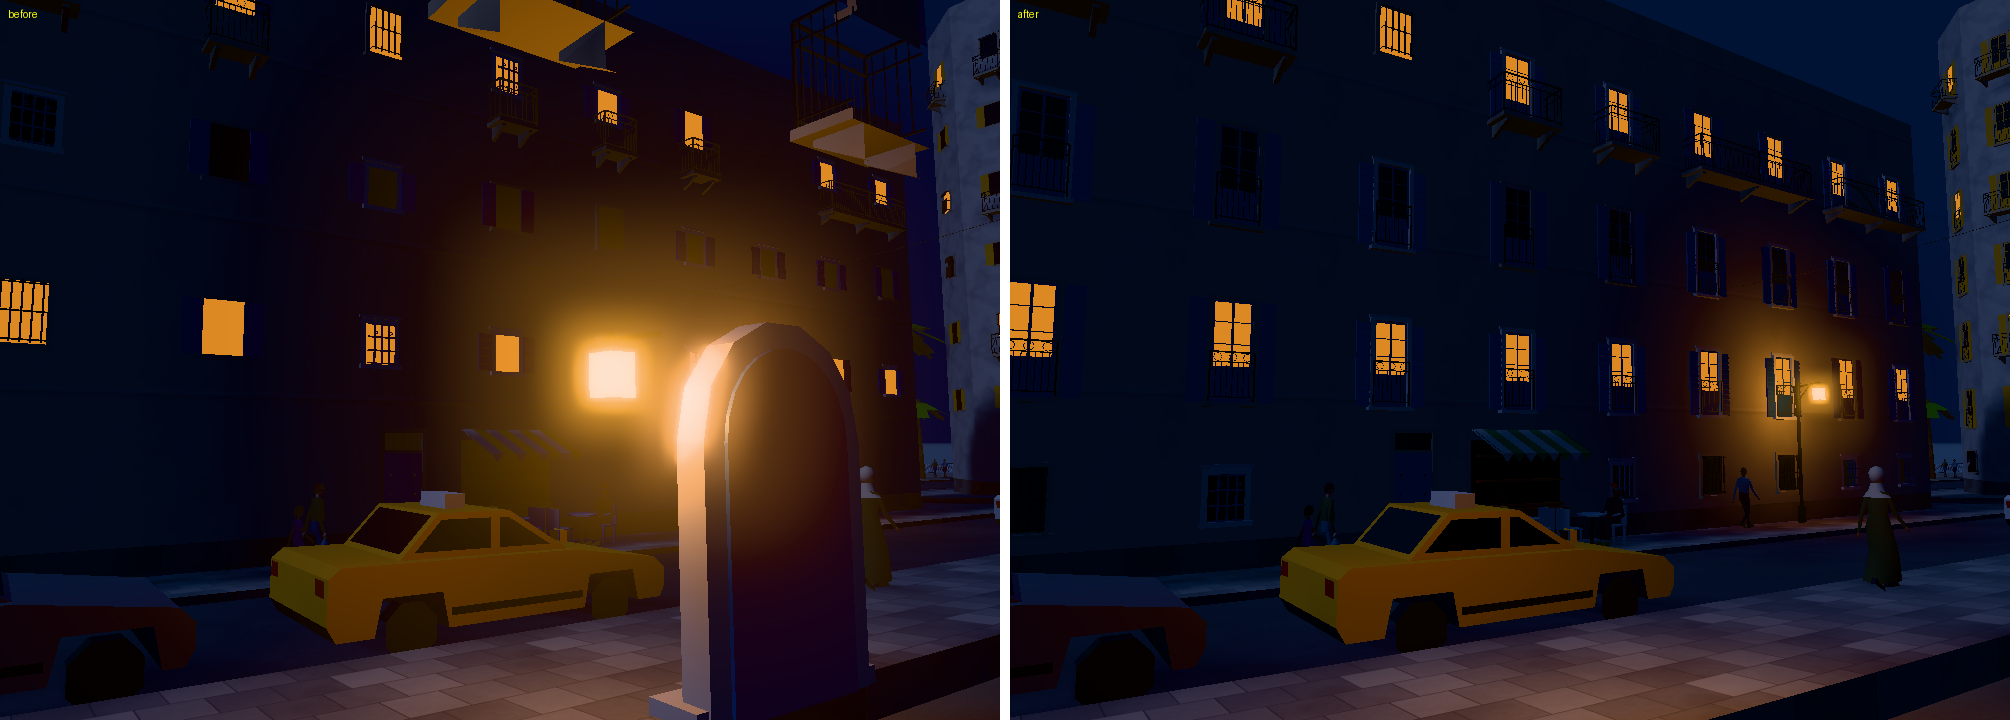
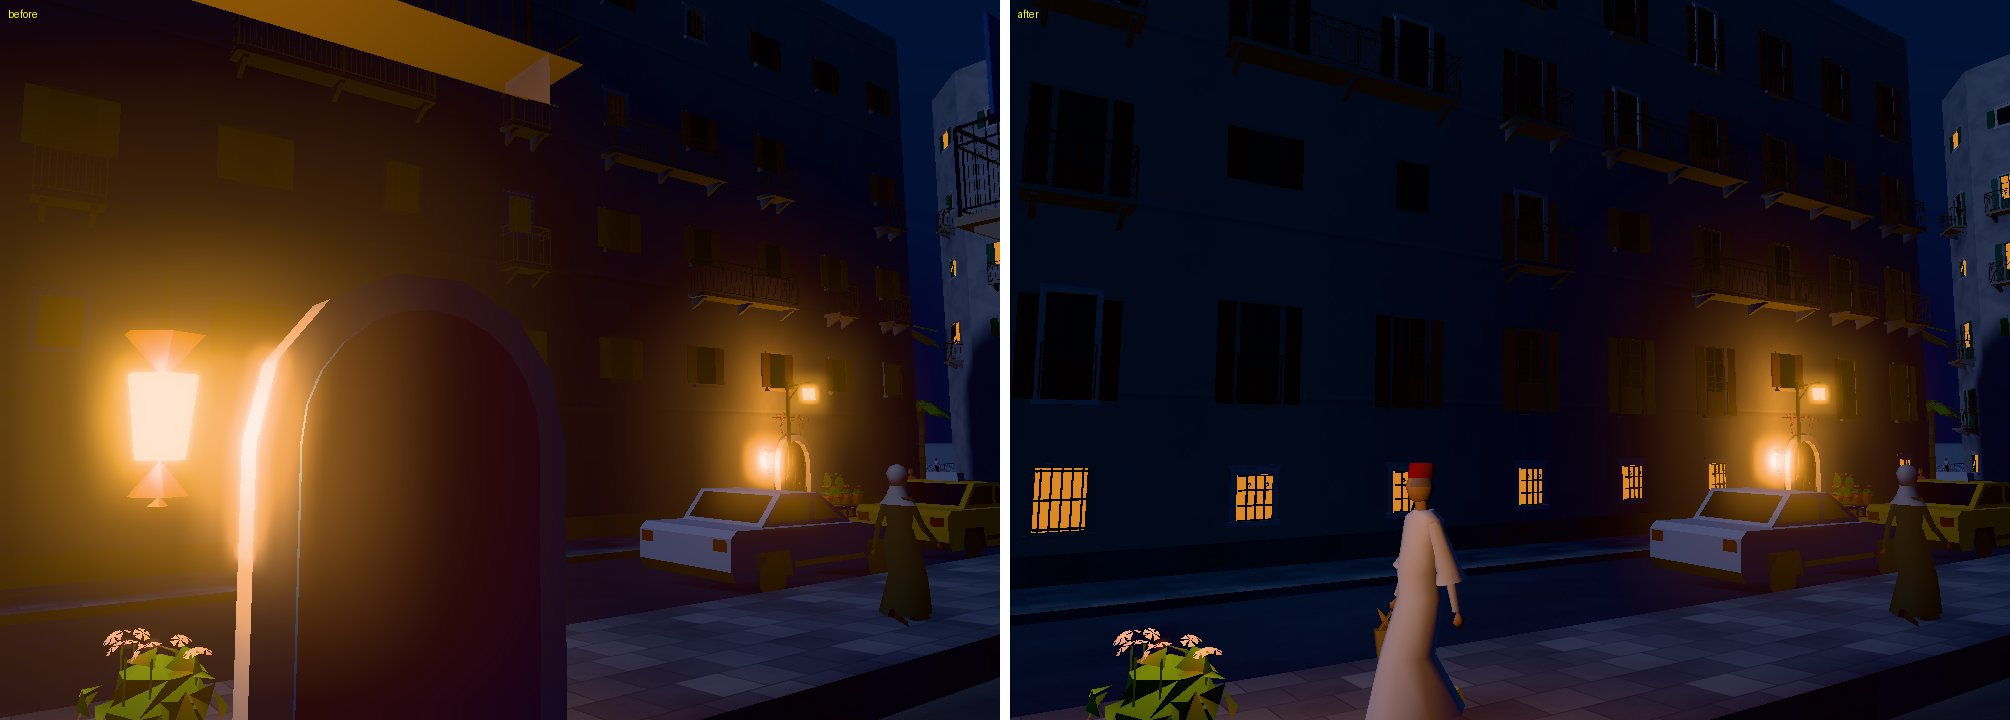
Facades on f4581c1: new numbers, capital-wide test slow, a turned flight's landing in the stairs test

diff --git a/tests/test_citygen.py b/tests/test_citygen.py
@@ -3668,6 +3668,7 @@ def _stripped(name: str) -> str:
     return name[:-4] if name.endswith("_lit") else name
 
 
+@pytest.mark.slow
 def test_every_iron_balcony_stands_before_door_windows(interior_ctx):
     """On the real quick capital: each rail has its door-window (two for a long balcony) at its floor, no plain
     window behind any rail, and no door-window without a rail: nobody steps out over a sill or into the air."""
@@ -4673,7 +4674,8 @@ def test_stairs_connect_floors_with_headroom(interior_ctx, old_town, new_distric
                 if s.kind != "ladder":                # the first leaves its floor, the last reaches the next
                     rise = np.diff(np.concatenate([[run.z_from], z, [run.z_to]]))
                     sign = 1.0 if run.z_to >= run.z_from else -1.0
-                    assert (sign * rise > -1e-6).all() and abs(z[0] - run.z_from) > 1e-6, (interior.building, s.kind)
+                    assert (sign * rise > -1e-6).all(), (interior.building, s.kind)
+                    assert s.turn or abs(z[0] - run.z_from) > 1e-6, (interior.building, s.kind)   # a turned flight's landing
                     assert np.abs(rise).max() <= S.riser_max(s, st) + 1e-6, (interior.building, s.kind)
                 for poly, z0, z1 in over:             # 2 m clear over every tread point
                     if poly.is_empty:

diff --git a/docs/wip/facades.md b/docs/wip/facades.md
@@ -3,7 +3,52 @@
 Branch `wip/facades` on main (8ea6008). Worktree `/tmp/claude-501/facades`. Tiles change: `make_blend` is the lead's.
 Why: Ali's screenshot of Megine, an iron balcony under a window with a sill at 0.95 m: nobody can step out.
 
-## 1. What to read first
+## 0. On main f4581c1 (the new capital): read this first
+
+Merged main (f4581c1) into the branch, no conflict. **All numbers in this section are on the merged code. Sections 2 to 9
+are the first round on 8ea6008, kept as the record: their designs hold, their counts were on the old capital.**
+
+| Group | Main f4581c1 | Merged | Ladder warnings |
+|---|---|---|---|
+| dar | 165/166 | 165/166 | 1 -> 1 |
+| compact | 266/268 | 266/268 | 5 -> 5 |
+| small | 74/78 | 74/78 | 4 -> 4 |
+| koubba | 25/27 | 25/27 | 0 -> 0 |
+| shop | 125/136 | 125/136 | 5 -> 5 |
+| colonial | 7/271 | **10/271** | 46 -> 47 |
+| slab | 237/340 | **274/340** | **33 -> 41** |
+| Takobka: villa | 136/150 | 136/150 | 2 -> 2 |
+| Takobka: maison | 386/503 | 386/503 | 23 -> 23 |
+| Takobka: dar, compact, small, koubba, shop | | 44/44, 66/66, 15/17, 4/4, 40/49 | |
+
+No group got worse in passes, 0 crashes. Slab ladder warnings rise with the gables: step 3's ladder check should look.
+
+| Gate | Result |
+|---|---|
+| `pytest -q` | 235 passed, 23 deselected |
+| `pytest -q -m slow` | 21 passed, 1 xfailed, **1 failed: `test_furnish_required_share`, 49 of 2,142, 2.29%, bar 2%** |
+| two hash seeds | 0 parts changed, tiles' sha identical |
+| `fingerprint compare main2 --allow` (saved from a clean f4581c1) | 300 parts, 32 changed, all named exactly, exit 0 |
+| `tools/balcony_survey.py` | 1,687 + 341 balconies, 901 balconnets, all door-windows, 0 plain (main: 1,862 plain), 0 door-window without a rail; 9,684 slab balconies before their own door |
+| placements against main | medina 675 identical; colonial 2,954 windows swapped, 2 `door_narrow` moved; modern only the stair windows moved |
+| budgets | drawn 5.16 M -> 6.01 M, +16.5%; densest tile 4.78 -> 4.86 MB |
+
+Tests: my capital-wide test is now `slow`. `test_stairs_connect_floors_with_headroom` failed on the merge: the sample's
+colonial block No. 928 now has a turned entry flight, whose walk starts flat on the door's landing (`stairs.turned_line`, a
+lead decision of 47.1/48.1), and the test's "the first point leaves its floor" did not allow for that. The test now says
+so, for a turned flight only; nothing else in it moved. No new stream reads `s.id`: `Dresser.rng` reads `plan.settlement.key`.
+
+**`test_furnish_required_share`: my reading in section 7 was wrong.** Read this time, by room:
+- 49 of 2,142 warned, 2.29%. Main: 36 of 2,106, 1.71%.
+- **0 of the 49 rooms has a door-window.** 5 have a slab balcony door (main has 7 of those).
+- **The rise is the slab gables.** Same code with `gable_windows` 0: 30 of 2,127, 1.41%, under main and under the bar. So
+  door-windows, balconnets and the other windows are harmless together here.
+- With gables, 14 slab wcs "have no wc" (1 on main) and 4 slab cuisines no fridge (0). Those wcs are the same room stacked
+  on each floor of Nos. 1255, 1275, 1248: 1.3 m2, 1.08 x 1.36 m, a narrow 0.7 m door. The light moved the plan and the wc
+  was left the leftover.
+- I have **not** added the `xfail`: it is not the reason the lead named. The gables are also what lifts the slab 237 -> 274.
+
+## 1. What to read first (first round)
 
 - **0 balconies before a plain window** in the quick capital and in Megine (the survey below). All 2,238 iron balconies
   of the capital stand before door-windows, the 10,067 slab balconies before their own door.
@@ -12,7 +57,7 @@ Why: Ali's screenshot of Megine, an iron balcony under a window with a sill at 0
 - **One gate fails: `-m slow`, `test_furnish_required_share`: 46 of 2,091 rooms warned, 2.2%, bar 2% (35 of 2,082, 1.7% on
   main).** Two honest attempts, then I stopped, see section 7. The bar is not lowered and the test is not skipped. It is
   prompt 54's bar, which step 3 of the order finishes, and most of the rise is a door-window in a bath, which only the
-  planner can cure (section 8).
+  planner can cure (section 8). **Wrong, see section 0: the gables cause it.**
 - Colonial blocks barely move in passes (8/270, was 5). Their rooms do get light (chambres without a window 866 ->
   740), but what fails them is mostly the "only through a chambre" family, the planner's. As the brief said: not chased.
 
@@ -216,17 +261,17 @@ which hides its frame: not visible from the street, and the door would melt into
 **WORKLOG (entry):**
 ```
 ## 2026-11-04 - Facades (step 2 of the order)
-- Branch wip/facades on 8ea6008, notes docs/wip/facades.md.
+- Branch wip/facades, merged on f4581c1, notes docs/wip/facades.md.
 - Changed: dressing.py, props.py, kit.py, outside.py, mesh.py, plancheck.py, dar.py, bayplan.py, furnish.py, viewer,
   styles, SPEC, tests, tools/balcony_survey.py (new).
-- Every iron balcony stands before a porte-fenetre (2,238 in the quick capital, 0 before a plain window); balconies 1.8 x
-  0.8 m so the shutters fold inside the rail; 953 balconnets; windows on slab gables (slab 253 -> 281), colonial ground
-  floors and street gaps, short court walls (colonial 5 -> 8, chambres without a window 866 -> 740). Slab balconies had
-  their own door: the claim above was wrong. Cream panels proved (camera inside a building) and cured in the viewer: a wall
-  piece shows only from its wall's side. Question 15 closed (tab: 2ac52f7; light slots gone, stair windows under the
-  slab; closed persiennes have a back).
-- Checks: pytest 216; slow: test_furnish_required_share 2.2%, bar 2% (1.7% on main), door-windows in baths; fingerprint
-  32 parts, all named; hash seeds identical; drawn triangles +17%.
+- Every iron balcony stands before a porte-fenetre (2,028 in the quick capital, 0 before a plain window); balconies 1.8 x
+  0.8 m so the shutters fold inside the rail; 901 balconnets; windows on slab gables (slab 237 -> 274), colonial ground
+  floors and street gaps, short court walls (colonial 7 -> 10). Slab balconies had their own door: the claim above was
+  wrong. Cream panels proved (camera inside a building) and cured in the viewer: a wall piece shows only from its wall's
+  side. Question 15 closed (tab: 2ac52f7; light slots gone, stair windows under the slab; closed persiennes have a back).
+- Checks: pytest 235; slow: test_furnish_required_share 49/2,142, 2.29%, bar 2% (1.71% on main): the slab gables leave a
+  1.3 m2 wc in stacked plans (30/2,127 without them); no warned room has a door-window. Fingerprint 32 parts, all named;
+  hash seeds identical; drawn triangles +16.5%. Slab ladder warnings 33 -> 41.
 - Look: docs/wip/facades-*.png.
 - Doubts: kit-family door 1.91 m high, its glass 0.06 m above the neighbours'.
 ```
